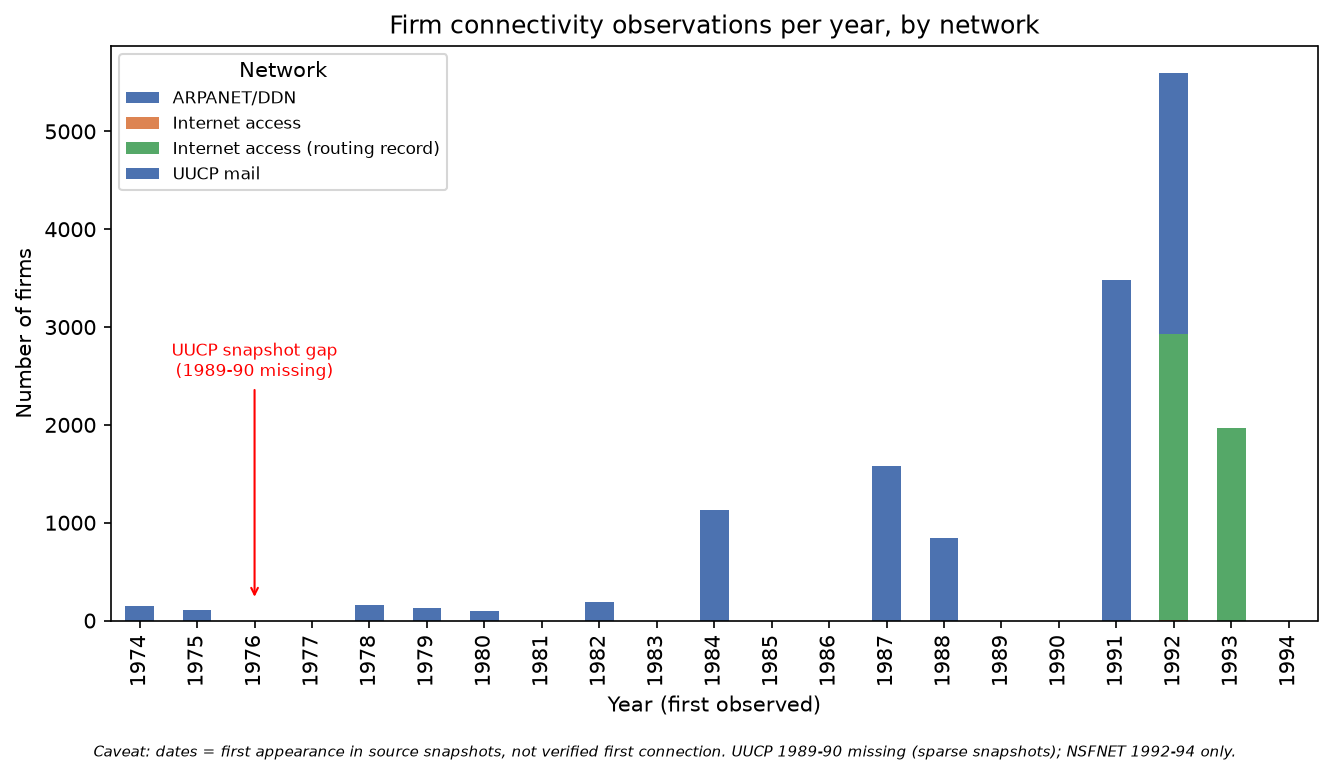
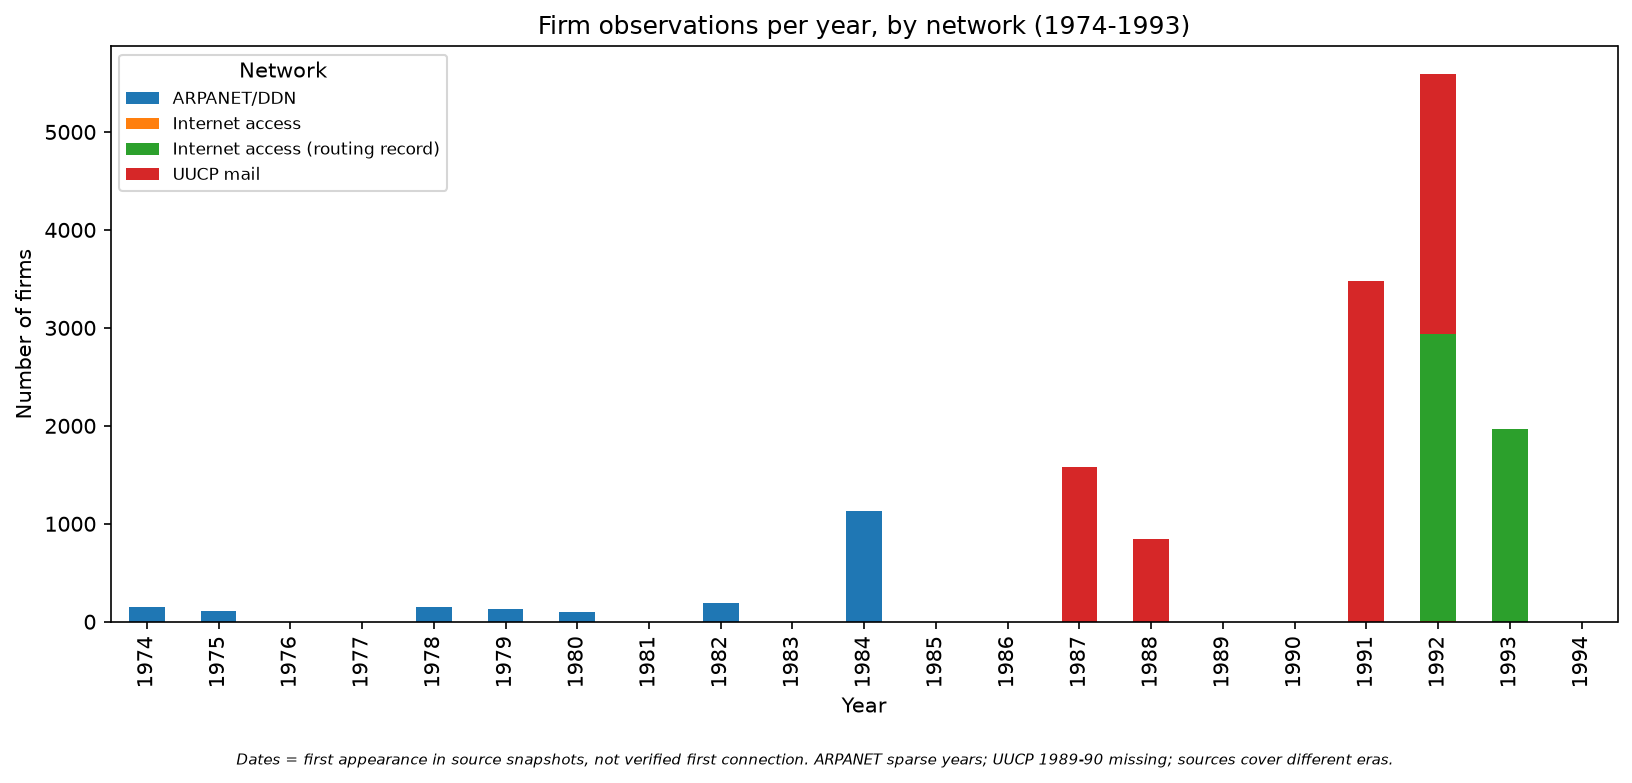
Add ARPANET source, funnel, country maps, two-panel adoption charts

diff --git a/code/04_analysis/adoption_viz.py b/code/04_analysis/adoption_viz.py
@@ -1,8 +1,4 @@
-"""
-Adoption-over-time visualizations (firms only).
-Handles known data artifacts: UUCP 1989-90 snapshot gap, source date windows.
-Charts are ANNOTATED so the artifacts aren't read as real adoption patterns.
-"""
+"""Adoption-over-time visualizations (firms only), 1974-1993."""
 import pandas as pd
 import matplotlib
 matplotlib.use("Agg")
@@ -10,84 +6,73 @@ import matplotlib.pyplot as plt
 from pathlib import Path
 
 FIG = Path("output/figures"); FIG.mkdir(parents=True, exist_ok=True)
+YEARS = range(1974, 1995)
 
 df = pd.read_csv("data/clean/firm_internet_connectivity.csv")
 df = df[df["entity_type"] == "firm"].copy()
 df["year"] = pd.to_numeric(df["recorded_date"].astype(str).str[:4], errors="coerce")
-df = df.dropna(subset=["year"])
-df["year"] = df["year"].astype(int)
+df = df.dropna(subset=["year"]); df["year"] = df["year"].astype(int)
 
-# ---- Chart 1: New firm observations per year, stacked by network ----
+# Chart 1: by network (stacked)
 pivot = (df.groupby(["year", "connectivity_type"]).size()
-           .unstack(fill_value=0).reindex(range(1974, 1995), fill_value=0))
-
-fig, ax = plt.subplots(figsize=(9, 5))
-pivot.plot(kind="bar", stacked=True, ax=ax,
-           color=["#4C72B0", "#DD8452", "#55A868"])
-ax.set_title("Firm connectivity observations per year, by network")
-ax.set_xlabel("Year (first observed)")
-ax.set_ylabel("Number of firms")
+           .unstack(fill_value=0).reindex(YEARS, fill_value=0))
+fig, ax = plt.subplots(figsize=(11, 5))
+pivot.plot(kind="bar", stacked=True, ax=ax)
+ax.set_title("Firm observations per year, by network (1974-1993)")
+ax.set_xlabel("Year"); ax.set_ylabel("Number of firms")
 ax.legend(title="Network", fontsize=8)
-# Annotate the gap
-ax.annotate("UUCP snapshot gap\n(1989-90 missing)",
-            xy=(2, 200), xytext=(2, 2500),
-            ha="center", fontsize=8, color="red",
-            arrowprops=dict(arrowstyle="->", color="red"))
-plt.figtext(0.5, -0.02,
-            "Caveat: dates = first appearance in source snapshots, not verified "
-            "first connection. UUCP 1989-90 missing (sparse snapshots); "
-            "NSFNET 1992-94 only.",
+plt.figtext(0.5, -0.03,
+            "Dates = first appearance in source snapshots, not verified first "
+            "connection. ARPANET sparse years; UUCP 1989-90 missing; "
+            "sources cover different eras.",
             ha="center", fontsize=7, style="italic", wrap=True)
 plt.tight_layout()
 plt.savefig(FIG / "adoption_by_network.png", dpi=150, bbox_inches="tight")
 print("Saved adoption_by_network.png")
 
-# ---- Chart 2: Cumulative firms online (earliest appearance per firm) ----
-# earliest year per firm (across networks) to avoid double counting
+# Chart 2: cumulative
 first = df.groupby("firm_name_standardized")["year"].min()
-by_year = first.value_counts().reindex(range(1974, 1995), fill_value=0).sort_index()
+by_year = first.value_counts().reindex(YEARS, fill_value=0).sort_index()
 cumulative = by_year.cumsum()
-
-fig, ax = plt.subplots(figsize=(9, 5))
+fig, ax = plt.subplots(figsize=(11, 5))
 ax.plot(cumulative.index, cumulative.values, marker="o", linewidth=2)
-ax.set_title("Cumulative firms first observed online")
-ax.set_xlabel("Year")
-ax.set_ylabel("Cumulative unique firms")
-# shade the gap
+ax.set_title("Cumulative firms first observed online (1974-1993)")
+ax.set_xlabel("Year"); ax.set_ylabel("Cumulative unique firms")
+ax.axvspan(1984.5, 1986.5, color="gray", alpha=0.08)
 ax.axvspan(1988.5, 1990.5, color="red", alpha=0.08)
-ax.annotate("1989-90: UUCP snapshot gap\n(curve understates adoption here)",
-            xy=(1989.5, cumulative.get(1989, 0)), xytext=(1989.5, cumulative.max()*0.5),
-            ha="center", fontsize=8, color="red",
-            arrowprops=dict(arrowstyle="->", color="red"))
-plt.figtext(0.5, -0.02,
-            "Caveat: 'first observed', not verified first connection. "
-            "1989-90 flat due to missing UUCP snapshots, not a real plateau.",
+plt.figtext(0.5, -0.03,
+            "'First observed', not verified first connection. Flat segments "
+            "reflect source coverage (1985-86 gap, UUCP 1989-90 gap), "
+            "not real adoption pauses.",
             ha="center", fontsize=7, style="italic", wrap=True)
 plt.tight_layout()
 plt.savefig(FIG / "adoption_cumulative.png", dpi=150, bbox_inches="tight")
 print("Saved adoption_cumulative.png")
 
-# ---- Chart 3: Top countries over time (international dimension) ----
-top = df["location_country_iso3"].value_counts().head(6).index
+# Chart 3: TWO PANELS - USA (left) vs non-US (right)
+top = df["location_country_iso3"].value_counts().head(8).index
 sub = df[df["location_country_iso3"].isin(top)]
 cp = (sub.groupby(["year", "location_country_iso3"]).size()
-        .unstack(fill_value=0).reindex(range(1974, 1995), fill_value=0))
-# Drop USA to see the others (USA dwarfs all)
+        .unstack(fill_value=0).reindex(YEARS, fill_value=0))
 non_us = [c for c in cp.columns if c != "USA"]
 
-fig, ax = plt.subplots(figsize=(9, 5))
-cp[non_us].plot(ax=ax, marker="o")
-ax.set_title("Firm observations per year, top non-US countries")
-ax.set_xlabel("Year"); ax.set_ylabel("Number of firms")
-ax.legend(title="Country", fontsize=8)
-plt.figtext(0.5, -0.02,
-            "Non-US firms appear mainly via NSFNET (1992+). USA excluded here "
-            "(dominates); international coverage begins with NSFNET.",
+fig, (axL, axR) = plt.subplots(1, 2, figsize=(13, 5))
+if "USA" in cp:
+    axL.plot(cp.index, cp["USA"], marker="o", color="#4C72B0", linewidth=2)
+axL.set_title("USA firms per year")
+axL.set_xlabel("Year"); axL.set_ylabel("Number of firms")
+
+cp[non_us].plot(ax=axR, marker="o")
+axR.set_title("Top non-US countries per year")
+axR.set_xlabel("Year"); axR.set_ylabel("Number of firms")
+axR.legend(title="Country", fontsize=8)
+
+fig.suptitle("Firm observations per year: USA vs. other countries (1974-1993)")
+plt.figtext(0.5, -0.03,
+            "USA shown separately (dominates, ~13,700 firms). International firms "
+            "appear mainly via NSFNET (1992+). Reflects source coverage, "
+            "not a complete global census.",
             ha="center", fontsize=7, style="italic", wrap=True)
 plt.tight_layout()
 plt.savefig(FIG / "adoption_by_country.png", dpi=150, bbox_inches="tight")
-print("Saved adoption_by_country.png")
-
-print("\nSummary:")
-print("Cumulative firms by 1993:", int(cumulative.iloc[-1]))
-print("Peak new-firm year:", int(by_year.idxmax()), f"({int(by_year.max())} firms)")
+print("Saved adoption_by_country.png TWO_PANEL_v3")
